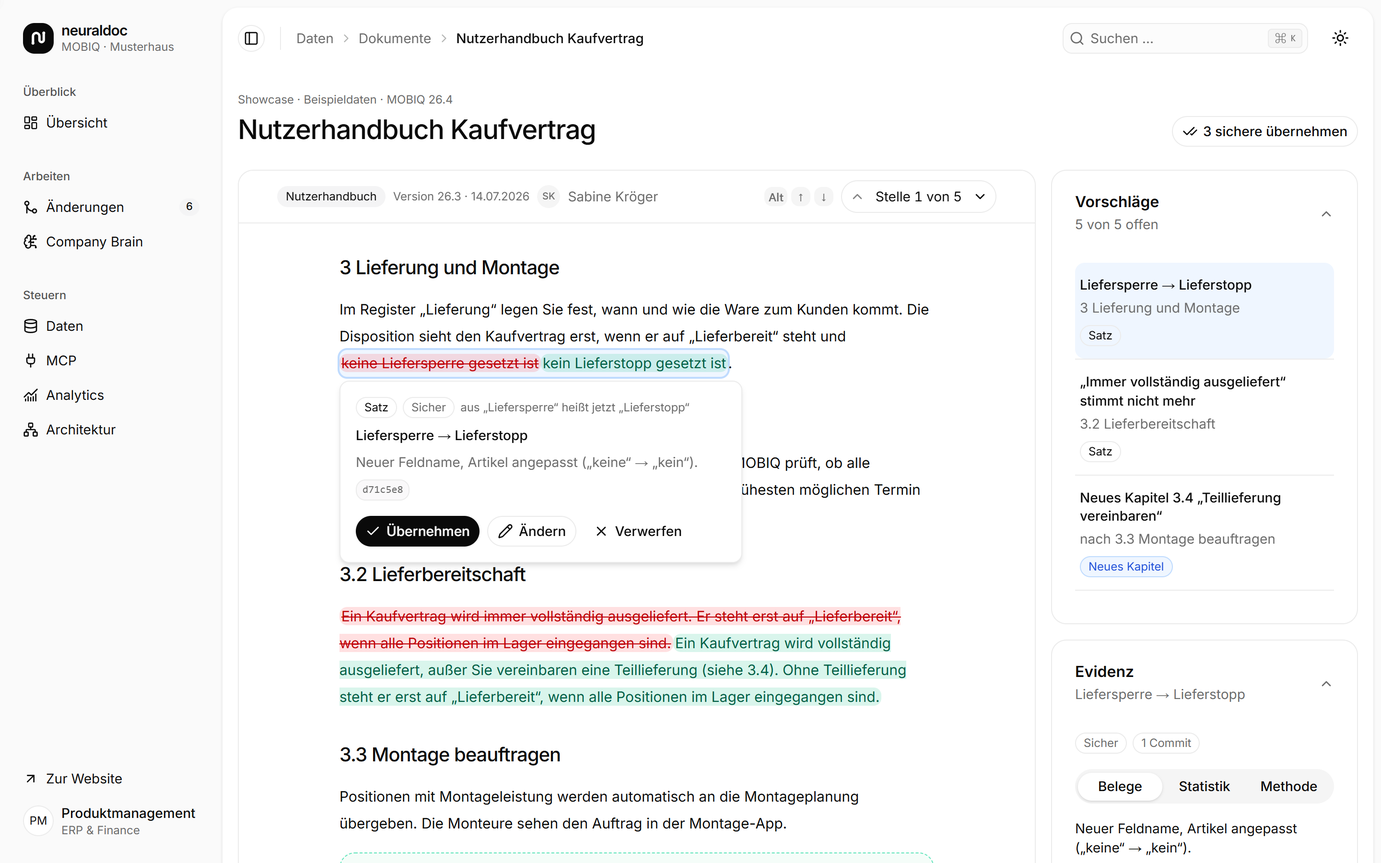
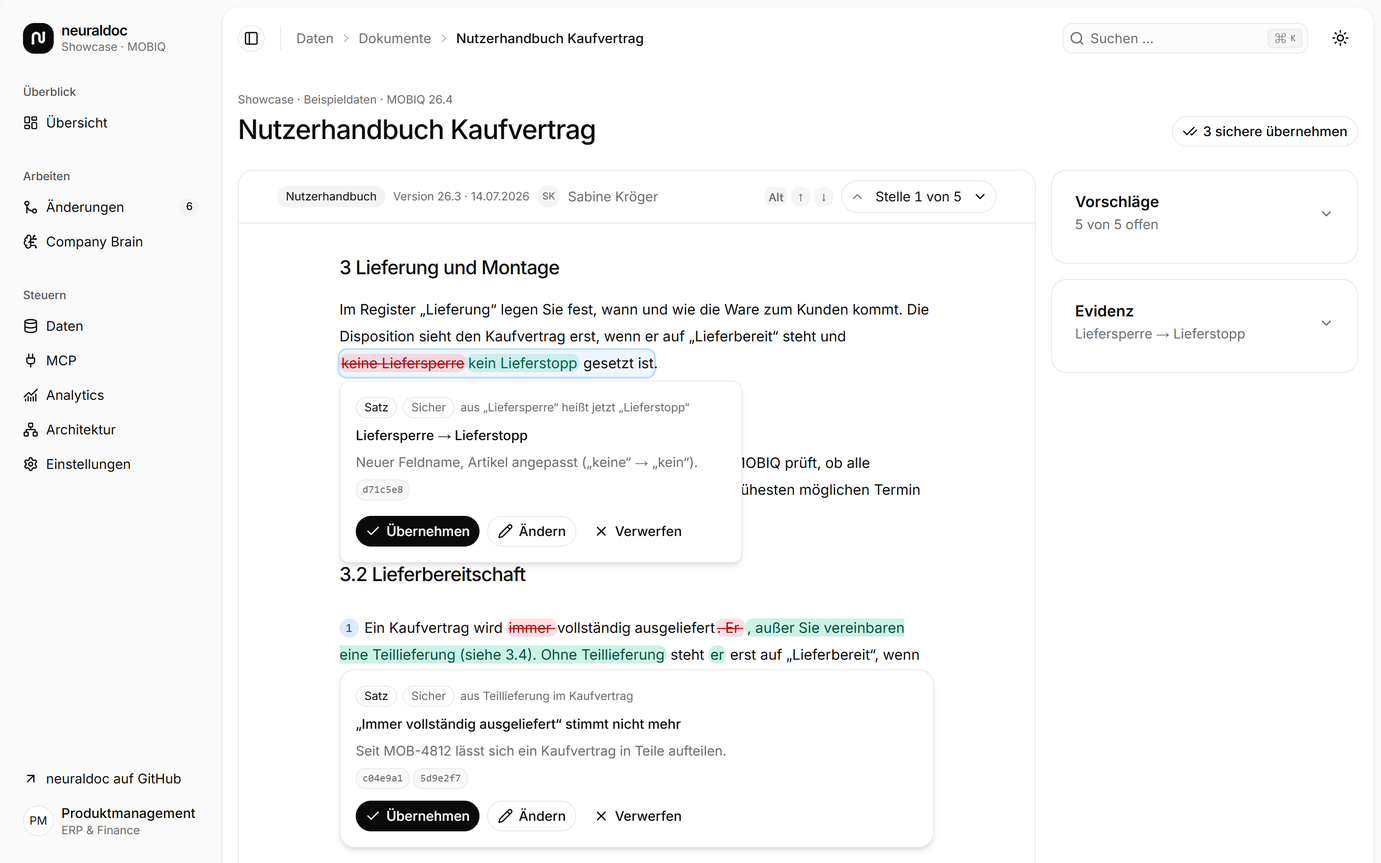
docs: section check and change view

diff --git a/ARCHITECTURE.md b/ARCHITECTURE.md
@@ -19,7 +19,7 @@ neuraldoc is one Node.js process. It serves the React interface, a small REST AP
 
 | Image | Data | Model calls |
 |---|---|---|
-| **App** (`docker build .`, default target) | Empty until you import an uploaded or cloned repository, optionally with separate documents. **Beispielprojekt laden** clones the MOBIQ sample ([mobiq-code](https://github.com/neuraldoc-ai/mobiq-code), [mobiq-docs](https://github.com/neuraldoc-ai/mobiq-docs)) like any other project. | Jev for the initial check, your LLM for drafting, both only on explicit click |
+| **App** (`docker build .`, default target) | Empty until you import an uploaded or cloned repository, optionally with separate documents. **Beispielprojekt laden** clones the MOBIQ sample ([mobiq-code](https://github.com/neuraldoc-ai/mobiq-code), [mobiq-docs](https://github.com/neuraldoc-ai/mobiq-docs)) like any other project. | Your LLM and Jev for the initial check, only on explicit click |
 | **Showcase** (`--target showcase`, `NEURALDOC_MODE=showcase`) | The prepared MOBIQ example from the `datasets/` submodules | none; prepared drafts are shown, import is off |
 
 The app image contains no sample data: without `datasets/`, [`vite.config.ts`](frontend/vite.config.ts) builds everything that belongs to the showcase from an empty stand-in, and the server loads the showcase modules (`core.mjs` and friends) only in showcase mode. Both use the same pages and components: [`features/docs/data.ts`](frontend/src/dashboard/features/docs/data.ts) exports the active dataset (empty, an imported project, or the showcase fixtures loaded as a separate chunk), and [`main.tsx`](frontend/src/dashboard/main.tsx) installs it before the pages load. Before the first import every data page shows the start screen ([`empty-start.tsx`](frontend/src/dashboard/features/docs/empty-start.tsx)). The interface never branches into a second copy of a page.
@@ -27,12 +27,19 @@ The app image contains no sample data: without `datasets/`, [`vite.config.ts`](f
 ## Pipeline for your own project
 
 1. **Upload** ([`upload.ts`](frontend/src/dashboard/features/docs/upload.ts), [`mcp/project-upload.mjs`](mcp/project-upload.mjs)). The browser reads a dropped or picked folder or ZIP, filters it with the shared rules in [`import-rules.mjs`](frontend/src/dashboard/features/docs/import-rules.mjs) (code and documents only; no `node_modules`, build output, lock files or secrets) and sends one ZIP: `repo/…`, `docs/…` and a manifest. A GitHub URL in the manifest is cloned on the server with `git clone --depth 300` over https only. Extraction rejects path traversal and oversized archives.
-2. **Import** ([`mcp/project-import.mjs`](mcp/project-import.mjs), [`mcp/doc-text.mjs`](mcp/doc-text.mjs)). Classifies files again on the server. Without a documentation upload, READMEs, `docs/` folders and PDF/Office files in the repository count as documentation; licences, changelogs, templates and test fixtures do not. PDF (pdf.js), Word, Excel and PowerPoint (their XML) and Confluence pages in storage format become text. Documents are split at headings into sections of at most 6,000 characters; each section is an exact slice of the original, so the export can put approved text back. A cloned repository's history ([`mcp/git-history.mjs`](mcp/git-history.mjs)) is read from the newest tag on (without a tag: 90 days): commits, merge requests parsed from GitLab and GitHub merge messages, and every commit's diff (stored next to the project in `diffs.json`, the clone is deleted). Merges on the main line become features with the commits their branch brought in; other commits are grouped by ticket key; features that change no code are left out. Each commit gets a kind of change from its files (tests, fix, rename, database, parameter, UI, process), which decides the feature's nature.
+2. **Import** ([`mcp/project-import.mjs`](mcp/project-import.mjs), [`mcp/doc-text.mjs`](mcp/doc-text.mjs)). Classifies files again on the server. Without a documentation upload, READMEs, `docs/` folders and PDF/Office files in the repository count as documentation; licences, changelogs, templates and test fixtures do not. PDF (pdf.js), Word, Excel and PowerPoint (their XML) and Confluence pages in storage format become text. Documents are split into one section per heading (levels 1 to 4); a section of a heading and a line or two is merged into the next one, a long one is cut at a blank line of at most 6,000 characters, and a code block is never cut (it may make its section up to three times as long). Each section is an exact slice of the original, so the export can put approved text back. Sections without prose (logos, badges, a list of links) are marked as not checkable. The dashboard shows a document as one page with its sections as blocks. A cloned repository's history ([`mcp/git-history.mjs`](mcp/git-history.mjs)) is read from the newest tag on (without a tag: 90 days): commits, merge requests parsed from GitLab and GitHub merge messages, and every commit's diff (stored next to the project in `diffs.json`, the clone is deleted). Merges on the main line become features with the commits their branch brought in; other commits are grouped by ticket key; features that change no code are left out. Each commit gets a kind of change from its files (tests, fix, rename, database, parameter, UI, process), which decides the feature's nature.
 3. **Code graph** ([`mcp/code-analysis.mjs`](mcp/code-analysis.mjs)). Tree-sitter (WASM) for Java, Kotlin, TypeScript/TSX and Pascal, the TypeScript compiler for symbol resolution, `pgsql-parser` for SQL. Unresolved or dynamic calls stay open instead of being guessed.
-4. **Initial check** ([`mcp/projects.mjs`](mcp/projects.mjs), [`mcp/retrieval.mjs`](mcp/retrieval.mjs), [`mcp/semantic-mapping.mjs`](mcp/semantic-mapping.mjs)). The code is cut into excerpts of about 60 lines. For each section, BM25 picks up to six excerpts, at most two per file and at most one from tests or build scripts (they crowd out product code). Jev rates each pair as *contradicts*, *incomplete* (the code does something the section should mention), *consistent*, *unrelated* or *insufficient*. A verdict counts when it is the most likely one with at least 0.6 probability and 0.5 confidence; on real documents Jev rarely goes above 0.8, and a false hit costs one draft that usually answers "no change". Every section with a contradiction or omission becomes a proposal. Requests are fingerprinted and cached; a budget check runs before every call. A malformed Jev answer is retried once, then only that section is skipped. An identifier index, code-graph expansion and a second model check with quoted findings were measured and did not do better ([mcp/eval/README.md](mcp/eval/README.md)).
-5. **Drafting** ([`mcp/drafting.mjs`](mcp/drafting.mjs), [`mcp/llm-providers.mjs`](mcp/llm-providers.mjs), [`mcp/draft-prompt.mjs`](mcp/draft-prompt.mjs)). Builds a writing context of at most 40 KB (the excerpts Jev found contradicting first, labelled with the verdict) and sends the section with line numbers. The model first lists findings, each with a literal quote from the section and from a code excerpt, then line edits (replace, insert after, delete) that fix exactly those. The server checks every quote, applies the edits to the exact section and rejects a draft without a verified finding, with overlapping or out-of-range edits, that changes more than 40 % of the lines, pastes source code from the evidence or switches between German and English. The model may also answer `needs_context` (a question) or `no_change` (the text is right). Invalid or incomplete responses are never stored. The showcase keeps the full-text format. See [mcp/DRAFTING.md](mcp/DRAFTING.md).
+4. **Initial check** ([`mcp/check.mjs`](mcp/check.mjs), [`mcp/projects.mjs`](mcp/projects.mjs)). Runs in the background (`POST /api/mcp/project/check` starts it, `GET` reports the phase and how many sections are done), three sections at a time.
+   - *Terms and code places.* The names a section mentions (code spans, identifiers, flags, environment variables, endpoints; in code blocks only code, not comments or strings) are looked up in an index of every identifier in the code, so the model learns which names occur where and which occur nowhere. The code is cut into excerpts of about 60 lines; they are ranked by BM25 (English and German stemming, camelCase split) plus the rarest section names they contain, and every file the section names by path or unique file name comes first. Up to 14 excerpts within 28 KB (more for a section that walks through many files), at most three per file and one from tests or scripts.
+   - *Findings.* Your LLM (default `gemini-3.5-flash-lite` with thinking level medium) works in three passes: every statement against the code (*contradicts*), every list of names against its definition (*missing*), every name that occurs nowhere (*removed*, only where an excerpt shows where it would have to be). Each finding has a literal quote from the section, a literal quote from an excerpt (for *removed*: the missing names), a German explanation for the reviewer and the line edits that fix exactly this finding.
+   - *Server checks* ([`verifyFindings`](mcp/check.mjs)). A finding is dropped unless its quotes exist; a *removed* name must be a product name of the section (camelCase, CONSTANT_CASE, a flag, a member or call; never an example value, a commit hash or another tool) and must occur in no uploaded code file. Edits must be valid; a replacement is cut down to the lines that actually change; whitespace or emphasis alone is not a change; list markers, blank lines and code formatting of the original are kept; the language may not switch; source code may not be pasted into prose; findings may not overlap; more than 60 % of a long section is never rewritten.
+   - *Second look.* The same model reviews the remaining findings of a section skeptically and drops context mistakes: another server, folder or entry point, an example or placeholder, a claim that rests on something not being in the excerpts, a mere alias or rewording. Measured: on neuraldoc's own documentation it removed 7 of 7 wrong findings (and 2 of 10 correct ones), on the API documentation of the benchmarks it lost nothing.
+   - *Completeness per document.* A document that lists names of one kind (options, environment variables, settings, fields, methods) spreads them over many sections. The excerpts that define most of the document's names (a settings file, an options interface; whole files while they fit in 32 KB) are compared with the document: names there that no document mentions, written like the documented ones and in a definition position, go to the model, which decides for each one whether to add it, where, and in the format of the neighbouring entries.
+   - *Jev* ([`verifyWithJev`](mcp/check.mjs)) rates every finding as *confirmed*, *refuted* or *unclear*. A clear refutation (0.75, confidence 0.6) drops the finding, a confirmation (0.7) marks it "von Jev bestätigt"; a deletion needs that confirmation, because dependency folders are never uploaded and a name can live there. A malformed Jev answer is retried once; then the findings stay unconfirmed.
+   Every section with a finding becomes a proposal that already carries its corrected text and its findings; a section the code cannot decide becomes a question. Model answers are cached by content in `check-cache/` (shared by all projects), Jev answers per project; a repeated check costs nothing. Rate limits (HTTP 429) are retried with backoff; a wrong key ends the check, a single failing section does not.
+5. **Re-checking one section** (`POST /api/mcp/drafts/generate` with the reviewer's answer) runs the same section check with the answer added to the input. [`mcp/drafting.mjs`](mcp/drafting.mjs) and [`mcp/draft-prompt.mjs`](mcp/draft-prompt.mjs) keep the provider calls, the price list and the showcase drafts. See [mcp/DRAFTING.md](mcp/DRAFTING.md).
    [`mcp/project-features.mjs`](mcp/project-features.mjs) turns the features into the same changes the showcase has. A proposal belongs to the feature whose changed files overlap most with the code excerpts its section contradicts (the newest on a tie); findings no commit since the last release explains stay in „Weitere Abweichungen“. This is derived when the project is read, so a later check needs no re-import.
-6. **Review and export**. Decisions are stored per project. Approval requires a generated draft. The export merges approved sections into their documents (PDF, Office and HTML as Markdown) and adds `neuraldoc-export.json` with the SHA-256 of each original.
+6. **Review and export** ([`section-review.tsx`](frontend/src/dashboard/features/docs/section-review.tsx), [`markdown.tsx`](frontend/src/dashboard/features/docs/markdown.tsx), [`line-diff.ts`](frontend/src/dashboard/features/docs/line-diff.ts)). The editor renders a section as Markdown with its changes in place: a changed line stays one line with only the changed words marked (code spans and links are compared as one piece, whitespace never counts), removed lines are struck through, added ones green, each change numbered; below it every number has its reason and code quote. Unticking a change applies the others only (the same line-edit rules as the server); the result is stored as an edited approval. Decisions are stored per project. The export merges approved sections into their documents (PDF, Office and HTML as Markdown) and adds `neuraldoc-export.json` with the SHA-256 of each original.
 
 ## Showcase
 
@@ -44,7 +51,8 @@ The app image contains no sample data: without `datasets/`, [`vite.config.ts`](f
 |---|---|
 | `/app/*` | The interface (single-page app) |
 | `/mcp` | MCP over JSON-RPC 2.0, Streamable HTTP with JSON responses |
-| `/api/mcp/project`, `/import` (ZIP body), `/activate`, `/check`, `/export` | Own projects |
+| `/api/mcp/project`, `/import` (ZIP body), `/activate`, `/export` | Own projects |
+| `/api/mcp/project/check` | `POST` starts the initial check in the background, `GET` reports its phase, progress and errors |
 | `/api/mcp/project/source`, `/commit?sha=`, `/documents` | Repository with history, one commit's diffs and the full documents for the Daten page |
 | `/api/mcp/db/connections`, `/connections/delete`, `/test`, `/query` | Own PostgreSQL connections ([`mcp/db-connections.mjs`](mcp/db-connections.mjs)): stored without returning the password, every query in a read-only transaction over the extended protocol (one statement), 15 s and 1,000 rows |
 | `/api/mcp/drafts`, `/decisions`, `/changes/:id`, `/usage`, `/activity`, `/setup` | Drafts, decisions, statistics, configuration status |
@@ -54,7 +62,7 @@ Write requests must come from the same origin or carry the MCP token. The server
 
 ## State
 
-Everything lives below `NEURALDOC_STATE_DIR` (`/data` in Docker, `mcp/state/` otherwise): `projects/<id>/project.json` with code, document texts, sections and Git history (`diffs.json` next to it), `active.json`, `connections.json` (mode 600), decisions, MCP logs, and the Jev and draft caches. Uploads are unpacked into a temporary folder there and deleted right after the import. Deleting the folder resets the app. Busy locks for import, check and drafting are per process.
+Everything lives below `NEURALDOC_STATE_DIR` (`/data` in Docker, `mcp/state/` otherwise): `projects/<id>/project.json` with code, document texts, sections and Git history (`diffs.json` next to it), `active.json`, `connections.json` (mode 600), decisions, MCP logs, the Jev and draft caches, and `check-cache/` with the model answers of the initial check (content-addressed, shared by all projects, deleted with **Zurücksetzen**). Uploads are unpacked into a temporary folder there and deleted right after the import. Deleting the folder resets the app. Busy locks for import, check and drafting are per process.
 
 ## Logging
 

diff --git a/README.md b/README.md
@@ -34,7 +34,7 @@ Code changes every sprint, the manual, the dialog descriptions and the parameter
 - **Bring your own model.** OpenAI, Claude, Gemini, Vertex AI or a local LLM via any OpenAI-compatible server.
 
 <p align="center">
-  <img src="docs/images/review.png" alt="neuraldoc review view: an outdated sentence in a user manual, struck through in red, with the proposed replacement in green and the buttons accept, edit and reject" width="900"/>
+  <img src="docs/images/review.png" alt="neuraldoc review view: in a user manual only the outdated words are struck through in red and the new ones are green, with the buttons accept, edit and reject" width="900"/>
 </p>
 <p align="center">
   <em>Reviewing a proposal. The old sentence is struck through, the new one is green, the evidence (commit <code>d71c5e8</code>) is one click away.</em>
@@ -76,9 +76,13 @@ A repository given by GitHub URL brings its Git history: every commit since the 
 
 **Daten** shows the repository in a code editor (files, search, history, merge requests, diffs), the documents as neuraldoc read them, and a database if there is one: the repository's SQL files run read-only in the browser (PGlite). **Datenbank verbinden** adds your own PostgreSQL, on your machine (`host.docker.internal` from inside the container) or at an internet address, with SSL. The password stays in the `neuraldoc-data` volume; every query runs in a read-only transaction, at most 15 seconds and 1,000 rows. Use a database user that may only read.
 
-1. **Erstprüfung starten** compares every documentation section with the current code, as if the last release had just shipped, and lists each mismatch.
-2. **Starten** lets your LLM write the correction for each mismatch.
-3. Review, accept or edit, then **Freigaben exportieren** downloads a ZIP with the corrected documents.
+1. **Erstprüfung starten** compares every documentation section with the current code, as if the last release had just shipped. It takes a few seconds per section; the overview shows the progress.
+2. Each section that no longer matches comes back with its correction: every change is marked in the text (only the words that change), numbered, and explained below with the code that shows it. Deletions say why the text has to go.
+3. Accept all changes of a section, untick single ones, edit the text yourself or reject it; then **Freigaben exportieren** downloads a ZIP with the corrected documents.
+
+<p align="center">
+  <img src="docs/images/check.png" width="640" alt="Review of one section of the ky README: in the list of retry defaults only the added method query and the changed defaults undefined to Infinity are marked, numbered 1 to 3; below, each number has its reason and the line of code that shows it, with a checkbox to leave a change out"/>
+</p>
 
 ### Prepared showcase (no keys)
 
@@ -119,18 +123,18 @@ docker run -p 8080:8080 neuraldoc-showcase
 ## How it works
 
 ```
-repo + docs ──► code graph ──► initial check ──► LLM draft ──► your review ──► ZIP export
- (upload or      tree-sitter    Jev: which        correction    accept/edit     corrected
-  GitHub URL)    + SQL AST      sections disagree + evidence    /reject         documents
+repo + docs ──► code graph ──► initial check ─────────────────────────► your review ──► ZIP export
+ (upload or      tree-sitter    per section: LLM findings with quotes,   accept, untick   corrected
+  GitHub URL)    + SQL AST      server checks, second look, Jev; per     single changes,  documents
+                                document: missing list entries           edit or reject
 ```
 
 | Step | What happens | Cost |
 |---|---|---|
-| **Import** | Reads the code and the documents. PDF, Word, Excel and PowerPoint become text; long documents are split into sections. A cloned repository's commits since the last release are grouped into features. | free, local |
+| **Import** | Reads the code and the documents. PDF, Word, Excel and PowerPoint become text; every document is split into sections at its headings. Sections without prose (logos, badges, link lists) are not checked. A cloned repository's commits since the last release are grouped into features. | free, local |
 | **Code graph** | Parses Java, Kotlin, TypeScript/TSX, Pascal (tree-sitter) and SQL (PostgreSQL parser) into files, functions, calls and tables. | free, local |
-| **Initial check** | For every section, BM25 finds up to six matching places in the current code. [Jev](https://docs.typesafe.ai/api) rates each pair as *contradicts*, *incomplete*, *consistent* or *unrelated*. Contradictions and omissions become proposals. | paid, capped by budget |
-| **Drafting** | Your LLM corrects each mismatching section from those code places. It can also answer that the text is right, or ask a question. The response is validated against a JSON contract and its evidence IDs; a correction that drops most of the section or pastes source code is rejected. | paid or local |
-| **Review & export** | You decide. Approved sections are merged back into their documents; PDF and Office files come back as Markdown. The export lists the SHA-256 of every original. | free, local |
+| **Initial check** | For every section, neuraldoc looks up the names it mentions (code spans, options, flags, environment variables) in the code and picks the matching code places, files the section names first. Your LLM lists the statements the code contradicts, the names that no longer exist and the entries a list leaves out, each with a literal quote from the section and the code, a reason and the line edits that fix it. The server keeps only what it can verify: quotes exist, a "removed" name really occurs nowhere in the code, edits change more than whitespace, keep the language and the Markdown format. A second look drops context mistakes (another server, an example value), [Jev](https://docs.typesafe.ai/api) confirms each finding and must confirm every deletion. Per document, a completeness pass compares documented options, settings or fields with the code that defines them. | paid (your LLM, about 0.01 USD per section; Jev a fraction of that) |
+| **Review & export** | Every change is shown in place with its reason and code evidence. You take all, some or none, or edit the text. Approved sections are merged back into their documents; PDF and Office files come back as Markdown. The export lists the SHA-256 of every original. | free, local |
 
 Every link in the graph is marked as **proven** (read from the code) or **derived** (from a model), so you always know what was found and what was guessed. Details: [ARCHITECTURE.md](ARCHITECTURE.md).
 
@@ -158,7 +162,7 @@ Keys, provider and model are set in the app under **Einstellungen** (stored in `
 | `NEURALDOC_GIT_TOKEN` | GitHub token, only for importing private repositories by URL (also in Einstellungen) | none |
 | `NEURALDOC_DRAFT_PROVIDER` | `openai`, `anthropic`, `gemini`, `vertex` or `local` | none |
 | `NEURALDOC_LLM_MODEL` | Model used for drafting | provider default |
-| `OPENAI_API_KEY` / `ANTHROPIC_API_KEY` / `GEMINI_API_KEY` | Key for the chosen provider | none |
+| `OPENAI_API_KEY` / `ANTHROPIC_API_KEY` / `GEMINI_API_KEY` / `VERTEX_API_KEY` / `NEURALDOC_LLM_API_KEY` | Key for the chosen provider | none |
 | `NEURALDOC_LLM_BASE_URL` | OpenAI-compatible server for `local` (Ollama, LM Studio, vLLM) | none |
 | `NEURALDOC_MODE` | `showcase`: prepared MOBIQ sample only, no import, no model calls (set by the `showcase` image) | empty |
 | `NEURALDOC_MCP_TOKEN` | Bearer token for the MCP endpoint | random per installation, shown on the MCP page |
@@ -179,7 +183,7 @@ A local LLM on the same computer is reached from the container at `http://host.d
 ## Privacy
 
 - **Your files stay unchanged.** The upload goes only to your own container; the temporary copy is deleted after the import. Secrets such as `.env` files and private keys are filtered out in the browser and again on the server.
-- **What leaves your machine:** document text and code excerpts go to Jev (TypeSafe API) when you start the initial check, and to your LLM provider when you draft. With a local LLM, only the Jev request leaves your machine. A GitHub URL is cloned directly from GitHub.
+- **What leaves your machine:** when you start the initial check, document sections and code excerpts go to your LLM provider, and the findings with their code excerpts to Jev (TypeSafe API). With a local LLM, only the Jev request leaves your machine. A GitHub URL is cloned directly from GitHub.
 - **Beispielprojekt laden** clones two public GitHub repositories. The **showcase image** makes no external calls at all.
 - **No telemetry**, no analytics, no tracking. Keys are read at runtime and never written to the image, the caches or the export.
 - Projects, decisions, caches and database connections live in the Docker volume `neuraldoc-data`. **Einstellungen → Zurücksetzen** deletes all projects, or everything including profile, keys and database connections; `docker volume rm neuraldoc-data` deletes the volume.
@@ -196,10 +200,11 @@ This is an early release. Known limits:
 - Up to 1,500 code files (100 KB each), 400 documentation sections of about 6,000 characters, 200 MB per upload and 30 MB per document.
 - Scanned PDFs without a text layer cannot be read. Images and diagrams in documents are not checked.
 - Deep analysis for Java, Kotlin, TypeScript/TSX, Pascal and SQL; other languages are compared as plain text.
-- Code places are found by shared terms (BM25). A section that uses entirely different words than the code can be missed.
-- Measured on four projects ([mcp/eval/README.md](mcp/eval/README.md)): on the MOBIQ sample the check finds 89 % of the expected changes with 96 % precision. On real open-source projects (httpx, zx, cobra) it finds 75 to 100 % but reports two to five times more sections than the maintainers changed; most of those get a "no change" draft, the reviewer still sees them.
-- Drafts fix contradictions far more reliably than they add missing features: in the open-source projects only up to 13 % of the expected additions were drafted. Every draft names its evidence and needs your approval.
-- Drafts keep the language of the section (German and English are checked).
+- Code places are found by the names a section mentions and by shared terms (BM25). A section that describes behaviour in entirely different words than the code can be missed.
+- Measured on five projects with known answers ([mcp/eval/README.md](mcp/eval/README.md)): a README-only library (chalk), a long README (ky), a separate documentation repository (axios-docs), a Django app with database (linkding) and the MOBIQ sample. The check reports 50 to 92 % of the expected changes (must-have changes: 40 to 100 %), and on MOBIQ every reported section had an expected change. Of about 40 findings checked by hand, none was wrong; some were trivial (an alternative name for a key). On neuraldoc's own documentation it reported 8 changes, none wrong, 4 of them trivial; without the second look it had been 17, 7 of them wrong.
+- Overviews of internal flows (architecture prose) are the weak spot: the check sees only some code places and cannot tell what calls what.
+- A check costs about 0.01 USD per section with `gemini-3.5-flash-lite` (0.1 USD for a short README, 0.5 USD for a documentation site with 60 sections). Repeating it costs nothing: answers are cached by content.
+- Corrections keep the language of the section (German and English are checked) and its Markdown format.
 - Jira, Confluence and SharePoint are not connected directly. Upload exported files or Confluence pages in storage format instead.
 
 ---

diff --git a/CHANGELOG.md b/CHANGELOG.md
@@ -29,8 +29,18 @@ All notable changes to this project are documented here. The format follows [Kee
 - Own PostgreSQL connections (Daten → Datenbank verbinden): local or remote, single fields or a connection URL, SSL modes, schema, connection test. Read-only transactions, 15 s and 1,000 rows per query; the password never leaves the server.
 - Evaluation of the initial check in `mcp/eval`: MOBIQ plus three open-source benchmarks from real project history (httpx, zx, cobra), item-level scoring, a calibrated LLM judge for drafts, cost and time per variant.
 
+- Change view for your own project: the section reads as it will read, only the words that change are marked (one line instead of an old and a new line under each other), every change is numbered and explained below with the code that shows it; single changes can be unticked before accepting. Documents render as Markdown (lists, tables, code blocks, links, badges, notes).
+- The initial check runs in the background with a progress display; `GET /api/mcp/project/check` reports phase and progress.
+- Evaluation benchmarks for a README-only library (chalk), a long README (ky), a separate documentation repository (axios-docs) and a Django app with database (linkding); planted outdated statements per benchmark (`mutations`).
+- MCP `check_change` lists every change of a proposal with its reason and evidence.
+
 ### Changed
 
+- The initial check finds and corrects in one step per section: your LLM lists contradicted statements, removed names and missing list entries, each with a quote from the section and the code, a reason and its line edits; the server keeps only what it can verify; a second look drops context mistakes; Jev confirms each finding and every deletion. A completeness pass per document adds options, settings or fields the code defines and no document mentions. Default thinking level medium for `gemini-3.5-flash-lite`.
+- Documents are split into one section per heading (code blocks are never cut); sections without prose are not checked. A document is one page in the editor.
+- Corrections keep list markers, blank-line structure and code formatting of the original; replacements are cut down to the lines that change; whitespace-only changes are dropped.
+- Makefile, Dockerfile, shell scripts and `.env.example` count as code.
+- Model answers of the check are cached by content in `check-cache/`, shared by all projects.
 - Drafts for your own project are line edits on the numbered section with quoted findings. A draft needs at least one finding whose quotes appear in the section and in a code excerpt; untouched lines cannot be lost, and a draft that switches the section's language (German/English) is rejected.
 - Default Gemini model for drafts is `gemini-3.5-flash-lite` (fewest false statements in the evaluation, about 0.002 USD per draft).
 - The initial check passes at most one excerpt from tests or build scripts per section to Jev, retries a malformed Jev answer once and then skips only that section instead of failing the whole check.

diff --git a/docs/llm-providers.md b/docs/llm-providers.md
@@ -2,8 +2,8 @@
 
 neuraldoc needs two services for your own projects:
 
-- **Jev** (`TYPESAFE_API_KEY`) maps documents to the changed code. It is required and stays an external API, even with a local LLM.
-- **One LLM** drafts the text changes. You choose the provider.
+- **Jev** (`TYPESAFE_API_KEY`, also `JEV_API_KEY`) gives a second opinion on every finding of the initial check and must confirm every deletion. It is required and stays an external API, even with a local LLM.
+- **One LLM** compares each documentation section with the code and writes the corrections. You choose the provider.
 
 The easiest way: open **Einstellungen** in the app, choose the provider and paste the keys. They are saved in the state directory (`/data/settings.json` in Docker), apply without a restart and are never returned to the browser. Alternatively set the variables in `.env` and pass it with `docker run --env-file .env`, or put them into `frontend/.env.local` when running without Docker; values saved in the interface take precedence. Never use a `VITE_` prefix for keys: those values end up in the browser bundle. The **Einstellungen** page in the app shows whether Jev and the LLM are configured (configuration only, no paid connection test). The status API `/api/mcp/setup` only reports whether keys are present.
 
@@ -39,5 +39,5 @@ API contracts: [OpenAI Structured Outputs](https://developers.openai.com/api/doc
 ## Costs
 
 - **Jev:** capped per mapping run by `NEURALDOC_JEV_BUDGET_USD` (default 0.25 USD, at most 1 USD). Unchanged requests come from the local cache.
-- **LLM:** costs of cloud providers are unknown until you set rates: `NEURALDOC_LLM_INPUT_USD_PER_MILLION` and `NEURALDOC_LLM_OUTPUT_USD_PER_MILLION`. For a local LLM, only API fees are reported (0 USD); power and hardware are not included.
+- **LLM:** the initial check makes about two requests per section with findings and one per other section. With `gemini-3.5-flash-lite` that is about 0.01 USD per section (thinking level medium); a repeated check comes from the cache. Costs of other cloud providers are unknown until you set rates: `NEURALDOC_LLM_INPUT_USD_PER_MILLION` and `NEURALDOC_LLM_OUTPUT_USD_PER_MILLION`. For a local LLM, only API fees are reported (0 USD); power and hardware are not included.
 - Page views, the showcase and builds never call a model.

diff --git a/mcp/DRAFTING.md b/mcp/DRAFTING.md
@@ -44,9 +44,13 @@ The model returns structured JSON. The server checks the schema, referenced evid
 
 Approval writes only to the local decision log (showcase) or the project state (own project). Confluence/SharePoint write-back is simulated; own projects are exported as a ZIP.
 
-### Line edits for your own project (`target.op: "patch"`)
+### Your own project: the section check
 
-For your own project the model does not rewrite the section. It gets the section with line numbers and the prompt `PATCH_PROMPT` (version `documentation-patch-v2`) and answers in two steps:
+For your own project, finding and correcting are one step: the initial check ([`check.mjs`](check.mjs), prompt `CHECK_PROMPT`, version `section-check-v2`) returns for every section its findings, each with a quote from the section, a quote from the code (`evidence` with `id` and `quote`, or the `absent` names for something removed), a German `explanation` and the line edits that fix it; a second prompt (`REVIEW_PROMPT`) drops context mistakes. The server rules are in [ARCHITECTURE.md](../ARCHITECTURE.md#pipeline-for-your-own-project). Re-checking a section with an answer from the reviewer (`POST /api/mcp/drafts/generate` with `id` and `answer`) runs the same check.
+
+### Line edits on request (`target.op: "patch"`)
+
+The drafting module still accepts `target.op: "patch"` for your own writing contexts given to the CLI ([`draft-cli.mjs`](draft-cli.mjs)). The model does not rewrite the section. It gets the section with line numbers and the prompt `PATCH_PROMPT` (version `documentation-patch-v2`) and answers in two steps:
 
 1. `findings`: each with `doc_quote` (literal from the section), `evidence_id` and `code_quote` (literal from that code excerpt) and a short `problem`.
 2. `edits`: `replace` lines start to end, `insert_after` a line (0 = before the first) or `delete`, at most 20.
